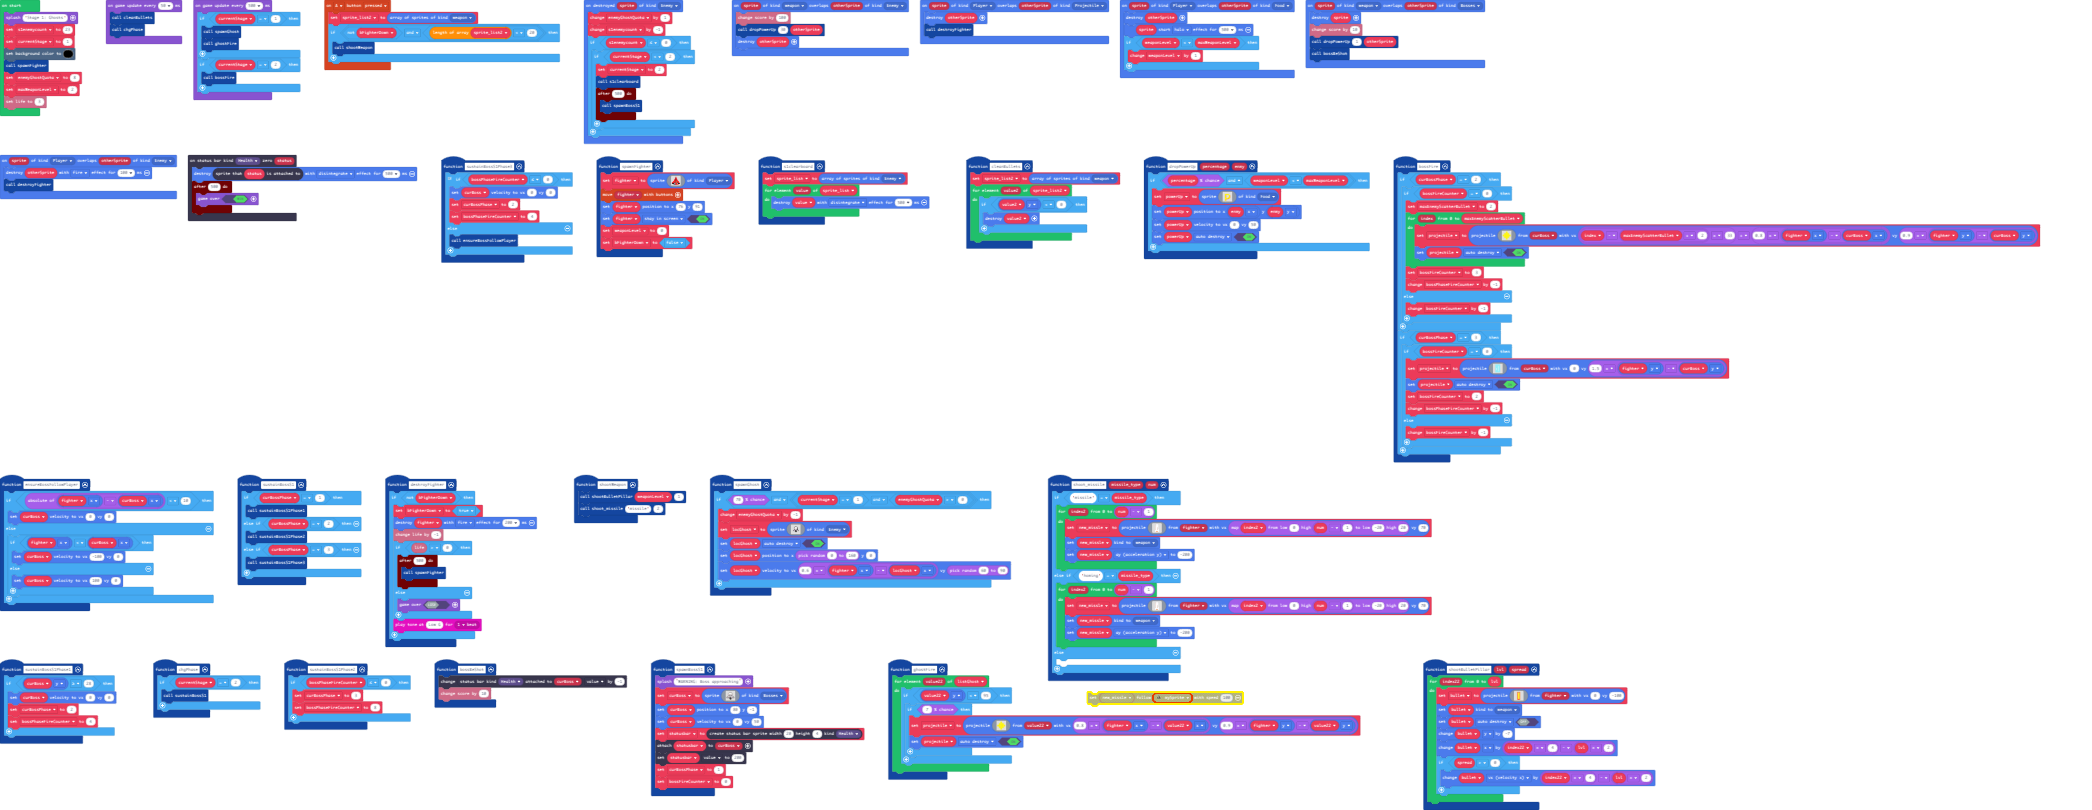
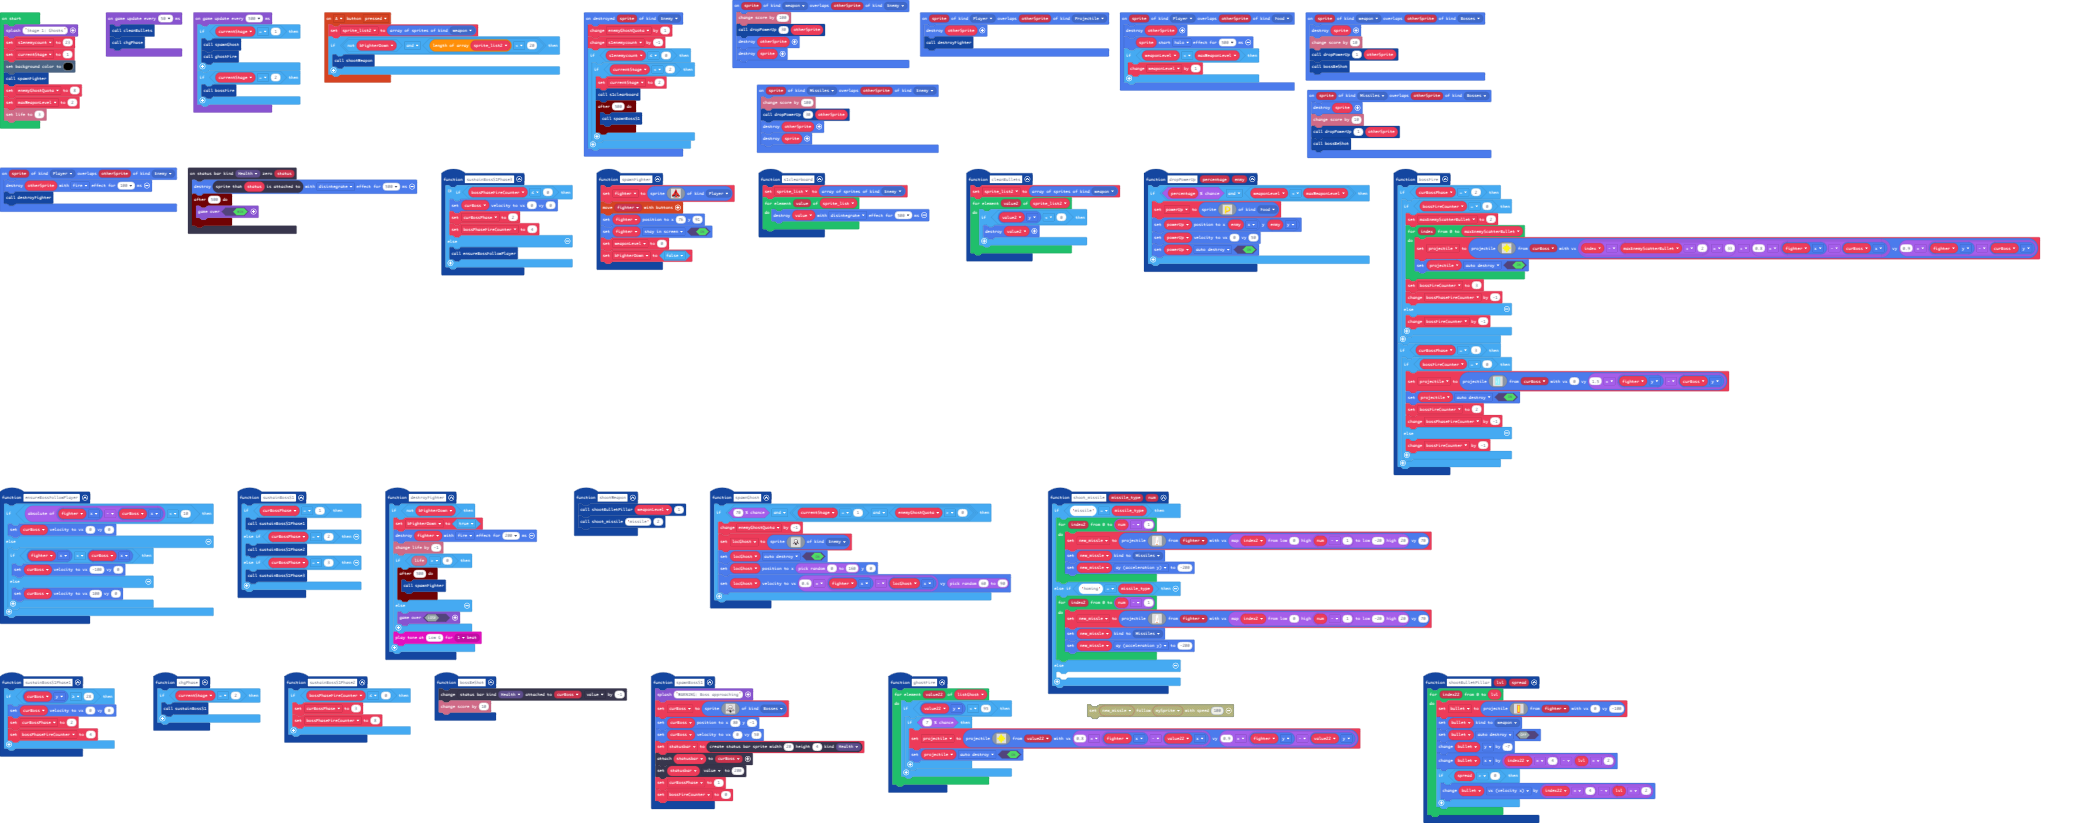
half baked homing

Changed region(s): [[0.0, 0.0, 0.9943, 0.5864], [0.0, 0.5864, 0.6836, 0.9877], [0.6836, 0.8025, 0.7768, 0.9877]]

diff --git a/main.ts b/main.ts
@@ -1,11 +1,13 @@
 namespace SpriteKind {
     export const weapon = SpriteKind.create()
     export const Bosses = SpriteKind.create()
+    export const Missiles = SpriteKind.create()
 }
 sprites.onOverlap(SpriteKind.weapon, SpriteKind.Enemy, function (sprite, otherSprite) {
     info.changeScoreBy(100)
     dropPowerUp(30, otherSprite)
     otherSprite.destroy()
+    sprite.destroy()
 })
 function sustainBossS1Phase3 () {
     // if already finished several shots, change back to phase-2;
@@ -160,6 +162,12 @@ function sustainBossS1 () {
         sustainBossS1Phase3()
     }
 }
+sprites.onOverlap(SpriteKind.Missiles, SpriteKind.Bosses, function (sprite, otherSprite) {
+    sprite.destroy()
+    info.changeScoreBy(10)
+    dropPowerUp(1, otherSprite)
+    bossBeShot()
+})
 function destroyFighter () {
     if (!(bFighterDown)) {
         bFighterDown = true
@@ -236,7 +244,7 @@ function shoot_missile (missile_type: string, num: number) {
                 1 1 1 1 1 1 
                 1 . 4 4 . 1 
                 `, fighter, Math.map(index2, 0, num - 1, -20, 20), 70)
-            new_missle.setKind(SpriteKind.weapon)
+            new_missle.setKind(SpriteKind.Missiles)
             new_missle.ay = -200
         }
     } else if ("homing" == missile_type) {
@@ -255,13 +263,19 @@ function shoot_missile (missile_type: string, num: number) {
                 1 1 1 1 1 1 
                 1 . 4 4 . 1 
                 `, fighter, Math.map(index2, 0, num - 1, -20, 20), 70)
-            new_missle.setKind(SpriteKind.weapon)
+            new_missle.setKind(SpriteKind.Missiles)
             new_missle.ay = -200
         }
     } else {
     	
     }
 }
+sprites.onOverlap(SpriteKind.Missiles, SpriteKind.Enemy, function (sprite, otherSprite) {
+    info.changeScoreBy(100)
+    dropPowerUp(30, otherSprite)
+    otherSprite.destroy()
+    sprite.destroy()
+})
 sprites.onOverlap(SpriteKind.Player, SpriteKind.Projectile, function (sprite, otherSprite) {
     otherSprite.destroy()
     destroyFighter()
